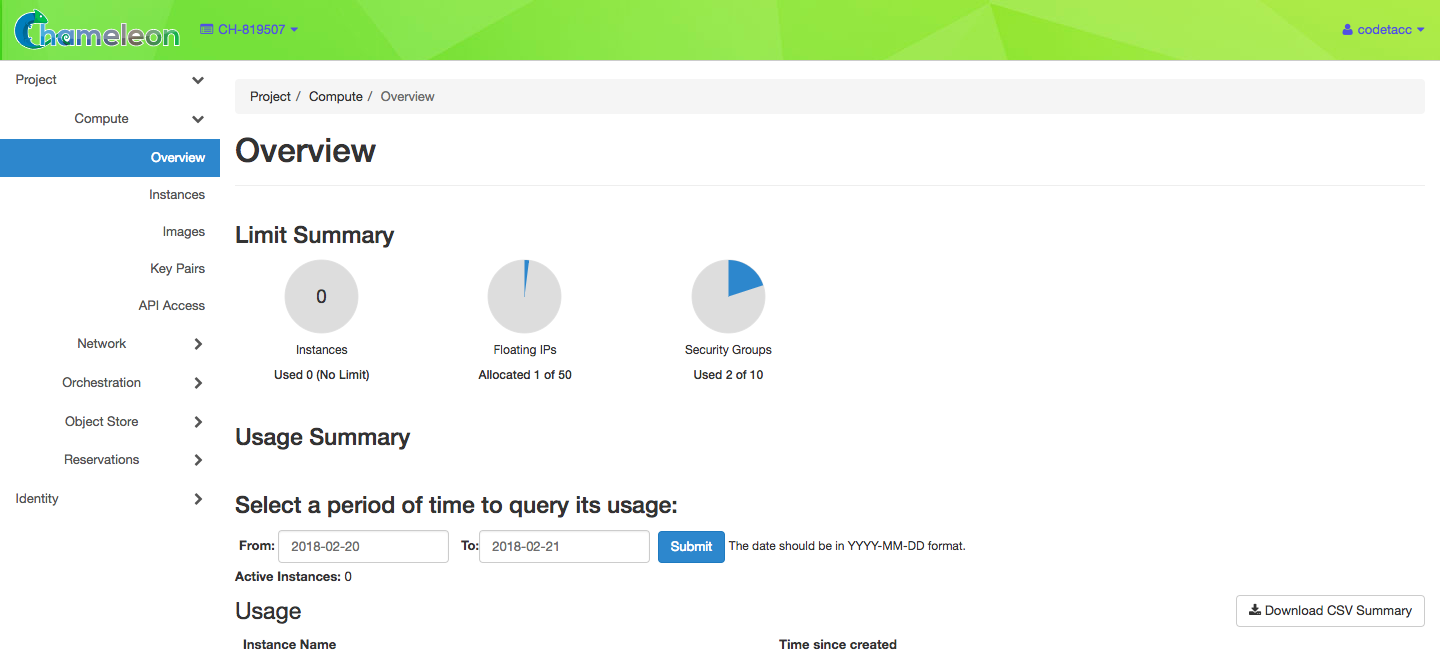
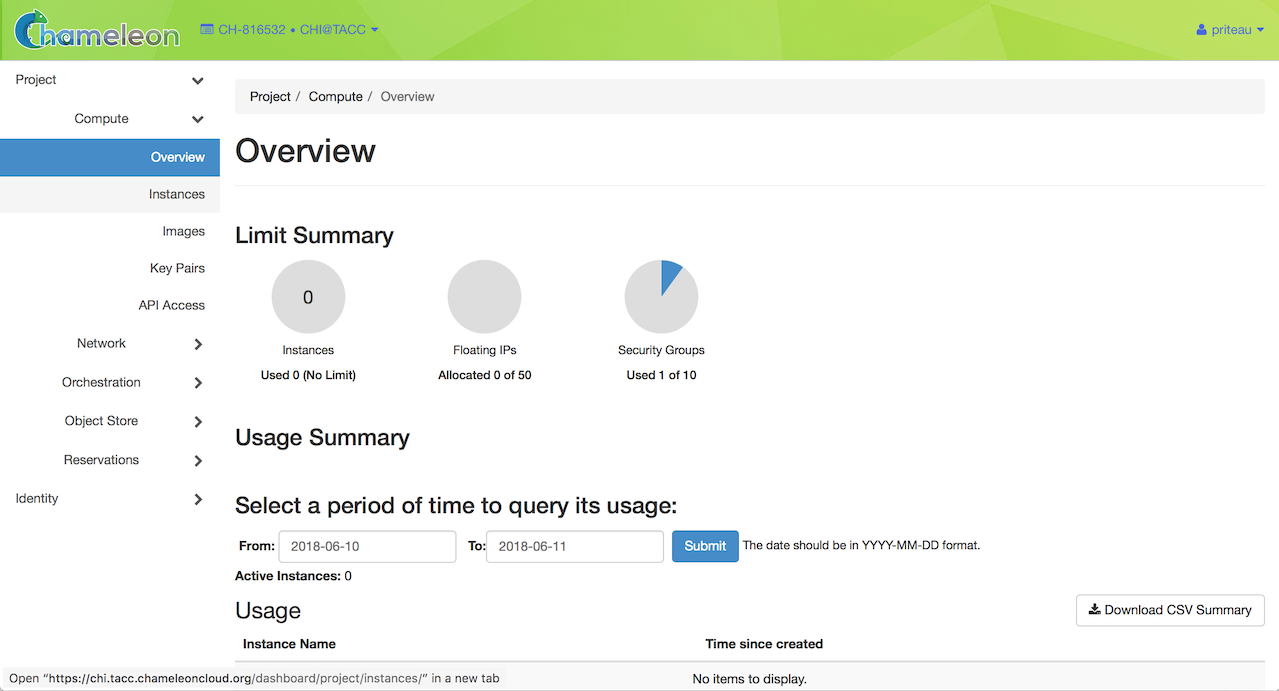
Add documentation about multi-region

diff --git a/source/technical/gui.rst b/source/technical/gui.rst
@@ -6,14 +6,14 @@ __________________________
 Introduction
 __________________________
 
-The Graphical User Interface (GUI) provides a point-and-click experience for working with Chameleon resources. From the GUI, you may perform tasks such as manage and launch instances, and configure custom networking. Additionally, you may download an *OpenStack RC* file from the GUI if you wish to work with the :ref:`Command Line Interface <cli>`, instead. The Chameleon GUI is built on top of the `OpenStack Horizon <https://docs.openstack.org/horizon/latest/>`_. There are two Chameleon resource sites, each with its own URL.
+The Graphical User Interface (GUI) provides a point-and-click experience for working with Chameleon resources. From the GUI, you may perform tasks such as manage and launch instances, and configure custom networking. Additionally, you may download an *OpenStack RC* file from the GUI if you wish to work with the :ref:`Command Line Interface <cli>`, instead. The Chameleon GUI is built on top of `OpenStack Horizon <https://docs.openstack.org/horizon/latest/>`_. There are two Chameleon resource sites, each with its own URL (though it is possible to easily switch from one to other, see :ref:`gui-project-menu`).
 
-- The Texas Advanced Computing Center resources are available at:
-  
+- The Texas Advanced Computing Center resources (CHI@TACC) are available at:
+
     https://chi.tacc.chameleoncloud.org
 
-- The University of Chicago resources are available at:
-  
+- The University of Chicago resources (CHI@UC) are available at:
+
     https://chi.uc.chameleoncloud.org
 
 Chameleon also hosts an *OpenStack KVM* implementation where you may work with virtual machines. This site **does not** have access to bare metal resources. It is available at:
@@ -26,8 +26,8 @@ You may login to either site using your Chameleon portal username and password.
 
 .. note:: If you are a new user or have just changed your password on http://www.chameleoncloud.org, it takes approximately 10 minutes for changes to propagate to each site.
 
-.. attention:: 
-    Two Chameleon bare metal sites - `CHI@TACC <https://chi.tacc.chameleoncloud.org>`_ and `CHI@UC <https://chi.uc.chameleoncloud.org>`_ - **only** share user accounts, but snapshots, keypairs, Swift containers, Gnocchi statistics and other objects at each site are **independent**. For example, a keypair created at the `CHI@TACC <https://chi.tacc.chameleoncloud.org>`_ site is **not** available at the `CHI@UC <https://chi.uc.chameleoncloud.org>`_ site. In addition, the bare metal resource types vary between `CHI@TACC <https://chi.tacc.chameleoncloud.org>`_ and `CHI@UC <https://chi.uc.chameleoncloud.org>`_.
+.. attention::
+    These two Chameleon bare metal sites---`CHI@TACC <https://chi.tacc.chameleoncloud.org>`_ and `CHI@UC <https://chi.uc.chameleoncloud.org>`_---**only** share user accounts, but snapshots, keypairs, Swift containers, Gnocchi metrics and other objects at each site are **independent**. For example, a keypair created at the `CHI@TACC <https://chi.tacc.chameleoncloud.org>`_ site is **not** available at the `CHI@UC <https://chi.uc.chameleoncloud.org>`_ site. In addition, the bare metal resource types vary between `CHI@TACC <https://chi.tacc.chameleoncloud.org>`_ and `CHI@UC <https://chi.uc.chameleoncloud.org>`_.
 
 __________________________
 GUI Features
@@ -42,10 +42,10 @@ Upon logging in to the GUI at a Chameleon site, you will see your project's Over
 
 .. _gui-project-menu:
 
-Project Menu
+Project and Region Menu
 __________________________
 
-To switch among the projects you belong to, use the project menu - the dropdown on the upper left of the screen next to the Chameleon logo.
+To switch among the projects you belong to, use the project and region menu - the dropdown on the upper left of the screen next to the Chameleon logo. You can also use this menu to switch from one Chameleon site to the other (sites are called *regions* in OpenStack terminology). This allows you to easily perform multi-site experiments without logging in twice.
 
 .. figure:: gui/project_dropdown.png
    :alt: Switching between projects
@@ -53,6 +53,9 @@ To switch among the projects you belong to, use the project menu - the dropdown 
    Switching between projects
 
 .. _gui-user-menu:
+
+.. Attention::
+   If you switch from one site to the other, make sure you have selected the site that you want to use before starting an experiment.
 
 User Menu
 __________________________
